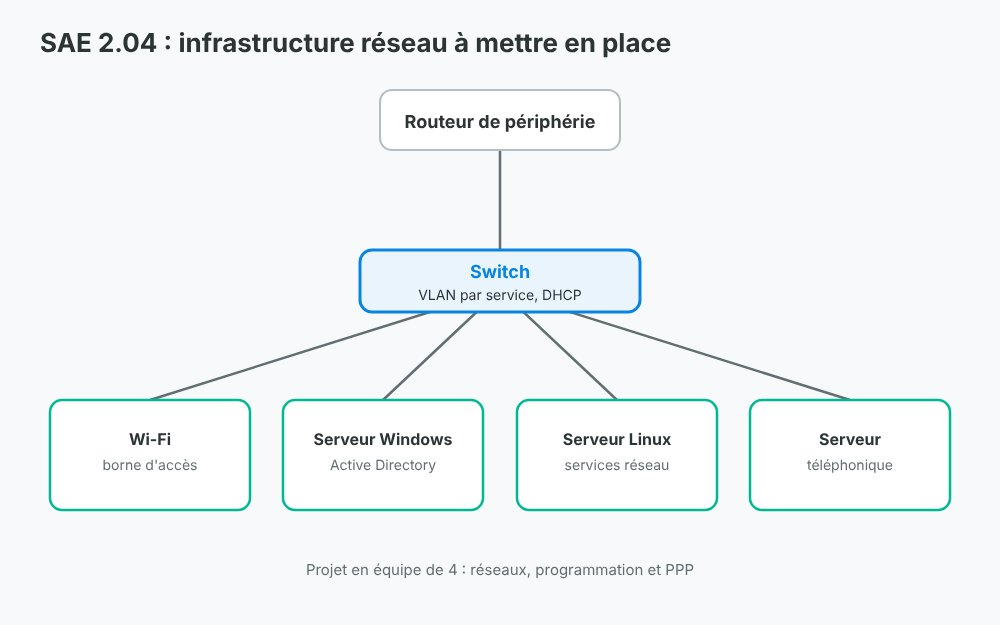
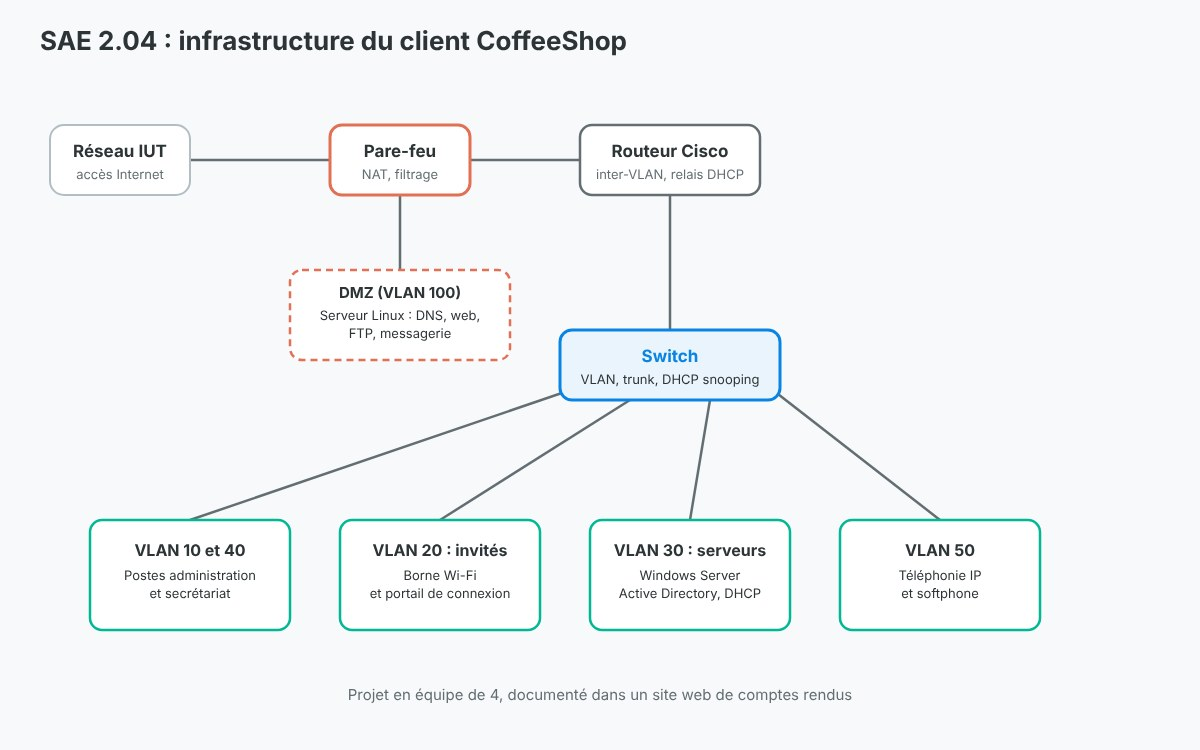
Projets : SAE 2.04 complétée, résultat du stage, Coffre-Fort terminé
Claude-Session: https://claude.ai/code/session_014Bh3UD8XD7mpeE9TGRzHX1

diff --git a/projets/projet5/index-p5.html b/projets/projet5/index-p5.html
@@ -26,22 +26,56 @@
         </div>
     </nav>
     <header class="hero" id="accueil">
-        <h2>Projet n°2 : Projet Intégratif</h2>
+        <h2>Projet n°2 : Projet intégratif (SAE 2.04)</h2>
         <h4>Contexte :</h4>
         <br>
-        <p>Dans le cadre de la matière "Situation d'apprentissage et d'évaluation n°24" (SAE2.04), nous devons réaliser un projet intégratif dans un groupe de 4 personnes regroupant toutes les connaisances techniques qu'on a vu depuis le début de l'année en réseaux, programmation et PPP.</p>
+        <p>Dans le cadre de la SAE 2.04 de 1re année, nous avons réalisé en équipe de 4 un projet intégratif qui regroupe tout ce que nous avions vu dans l'année en réseaux, en programmation et en PPP.</p>
+        <br>
+        <p>Nous jouions le rôle d'une entreprise de services informatique chargée de mettre en place l'infrastructure d'un client fictif, un café baptisé <strong>CoffeeShop</strong> : réseau pour les employés, Wi-Fi pour les clients, serveurs et téléphonie.</p>
         <br>
         <h4>Objectif :</h4>
         <br>
-        <p>L'objectif principal de ce projet est d'élaborer une infrastructure réseau fonctionnelle avec une infrastructure minimale par défaut.</p>
+        <p>Concevoir et mettre en service une infrastructure réseau complète et sécurisée, puis la documenter.</p>
         <br>
-        <p>L'infrastructure par défaut :  Un switch, des VLAN (communication entre services autorisés), du Wifi, du DHCP, un routeur de périphérie, Un serveur windows avec un Active Directory, Un serveur linux, Un serveur téléphonique
-</p>
+        <figure class="project-figure">
+            <img src="../../assets/projet5-infra.jpg" alt="Schéma de l'infrastructure réseau du client CoffeeShop">
+            <figcaption>Infrastructure mise en place pour le client CoffeeShop</figcaption>
+        </figure>
         <br>
         <h4>Travaux :</h4>
         <br>
+        <p><strong>Réseau</strong> :</p>
+        <ul>
+            <li>Segmentation en VLAN : administration (10), invités (20), serveurs (30), secrétariat (40), téléphonie (50) et DMZ (100)</li>
+            <li>Switch : ports en mode access par VLAN, lien trunk vers le routeur</li>
+            <li>Routeur Cisco : sous-interfaces pour le routage inter-VLAN, NAT, ACL, relais DHCP (ip helper-address) et accès SSH</li>
+            <li>Pare-feu : NAT et règles de filtrage vers le réseau de l'IUT</li>
+            <li>Borne Wi-Fi D-Link dans le VLAN invités, avec une page web de connexion avant l'accès à Internet</li>
+        </ul>
+        <br>
+        <p><strong>Serveurs et services</strong> :</p>
+        <ul>
+            <li>Installation des postes clients Windows 10 et Debian</li>
+            <li>Windows Server : Active Directory, groupes et utilisateurs, service DHCP</li>
+            <li>Serveur Linux : DNS avec BIND9, site web avec XAMPP, transfert de fichiers avec vsftpd, messagerie avec Postfix et Dovecot</li>
+        </ul>
+        <br>
+        <p><strong>Sécurité</strong> :</p>
+        <ul>
+            <li>Protection contre l'usurpation DHCP avec le DHCP snooping sur le switch, testée en branchant un poste sur un port non autorisé</li>
+            <li>Script PowerShell qui analyse les journaux DHCP pour détecter une attaque par épuisement d'adresses (DHCP starvation)</li>
+        </ul>
+        <br>
         <h4>Résultat :</h4>
-
+        <br>
+        <p>L'infrastructure a été documentée dans un site web développé en HTML, CSS et PHP : la vitrine du café, avec un formulaire de contact, et une partie « Infrastructure » qui regroupe une vingtaine de fiches de compte rendu, une par élément configuré.</p>
+        <br>
+        <h4>Outils et technologies :</h4>
+        <br>
+        <ul class="tags">
+            <li>VLAN</li><li>Cisco IOS</li><li>ACL</li><li>NAT</li><li>DHCP snooping</li><li>Windows Server</li><li>Active Directory</li><li>BIND9</li><li>XAMPP</li><li>vsftpd</li><li>Postfix</li><li>PowerShell</li><li>HTML / CSS / PHP</li>
+        </ul>
+        <br>
     </header>
 </body>
 </html>

diff --git a/projets/projet6/index-p6.html b/projets/projet6/index-p6.html
@@ -60,16 +60,12 @@
 
         <h4>Résultat :</h4>
         <br>
-        <p>L’application permet déjà de :</p>
+        <p>À la fin de la SAE, l’application était fonctionnelle. Elle permettait de :</p>
         <ul>
             <li>Se connecter via mot de passe sécurisé (hash PBKDF2).</li>
             <li>Ajouter et consulter des documents stockés localement et chiffrés.</li>
             <li>Afficher les documents par catégorie avec différents modes de présentation.</li>
         </ul>
-        <br>
-        <span class="alert">
-            <p><strong>Le projet est actuellement en phase de finalisation et d’intégration des fonctionnalités bonus (SMS & envoi mail).</strong></p>
-        </span>
         <br>
 
         <h4>Technologies utilisées :</h4>
@@ -82,11 +78,6 @@
             <li>Architecture : <strong>MVC / Repository Pattern</strong></li>
         </ul>
         <br>
-
-        <h4>Téléchargements :</h4>
-        <br>
-        <p><strong>APK :</strong> <em>Bientôt disponible</em></p>
-        <p><strong>Compte Rendu :</strong> <a href="#" target="_blank">Compte rendu (à venir)</a></p>
     </header>
 
 </body>

diff --git a/projets/projet5/styles.css b/projets/projet5/styles.css
@@ -116,3 +116,16 @@ table, th, td {
   background-color: rgb(0, 0, 0);
   padding: 3px;
 }
+.project-figure {
+	background: #fff;
+	border-radius: 10px;
+	padding: 10px;
+	max-width: 820px;
+	margin: 1rem 0;
+}
+.project-figure img { width: 100%; height: auto; display: block; border-radius: 6px; }
+.project-figure figcaption { color: #2d3436; font-size: 0.9rem; margin-top: 6px; text-align: center; }
+.hero ul { margin-left: 1.5rem; }
+.hero li { margin-bottom: 0.3rem; }
+.hero .tags { display: flex; flex-wrap: wrap; gap: 0.5rem; list-style: none; margin-left: 0; }
+.hero .tags li { background: rgba(255,255,255,0.18); border: 1px solid rgba(255,255,255,0.4); border-radius: 20px; padding: 2px 12px; font-size: 0.9rem; }

diff --git a/projets/projet7/index-p7.html b/projets/projet7/index-p7.html
@@ -59,6 +59,12 @@
             <li>Passerelle Bureau à distance placée en DMZ</li>
         </ul>
         <br>
+        <h4>Résultat :</h4>
+        <br>
+        <p>Le LAB a été monté et configuré de bout en bout : pare-feu, switch, hyperviseur et les quatre serveurs de l'architecture RDS.</p>
+        <br>
+        <p>En revanche, je n'ai pas réussi à mettre en place la connexion par <strong>carte à puce</strong> dans ce LAB, dont le matériel était limité. Faute de temps, la solution n'a donc pas pu être déployée chez le client avant la fin de mon stage.</p>
+        <br>
         <h4>Autres missions pendant le stage :</h4>
         <br>
         <ul>
